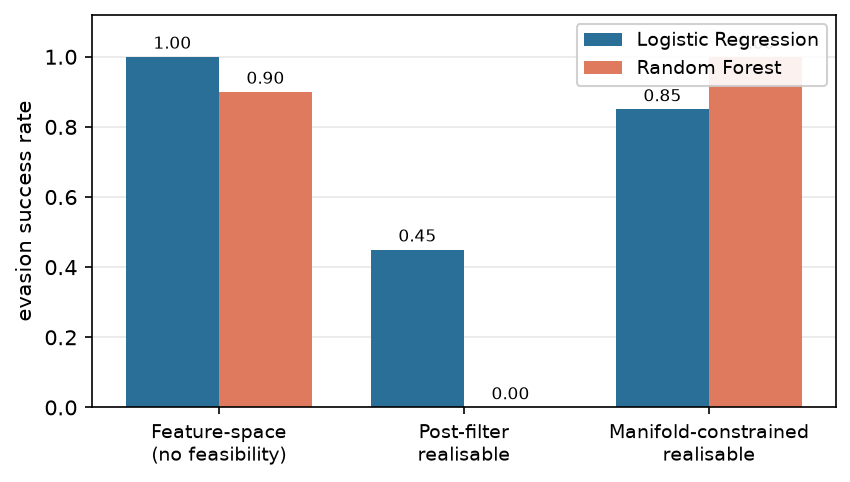
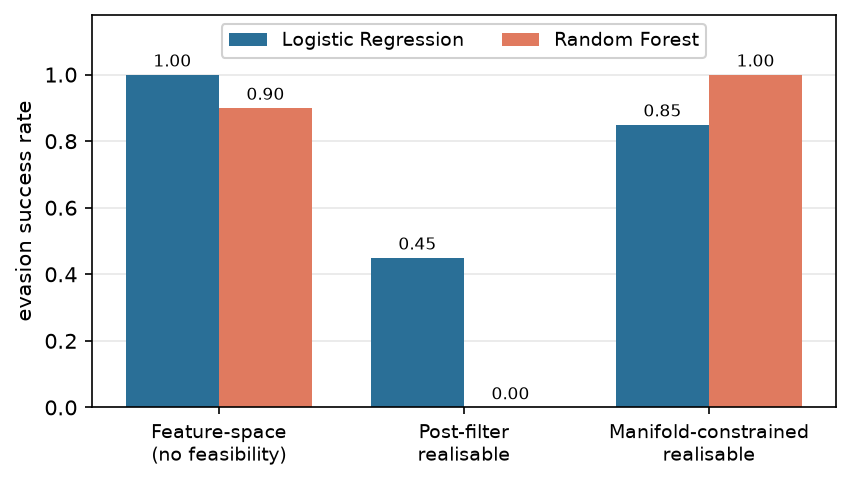
paper: center Figure 1 legend (clears the tall bars); gitignore LaTeX build output
tectonic installed locally; main.pdf builds cleanly (5 pp, all refs/figure/table
resolve). Sources tracked, compiled PDF gitignored (regenerate: tectonic main.tex).

diff --git a/docs/paper/make_figures.py b/docs/paper/make_figures.py
@@ -54,8 +54,10 @@ def fig_three_levels():
     for b in (b1, b2):
         ax.bar_label(b, fmt="%.2f", fontsize=8, padding=2)
     ax.set_xticks(x); ax.set_xticklabels(levels, fontsize=9)
-    ax.set_ylabel("evasion success rate"); ax.set_ylim(0, 1.12)
-    ax.legend(loc="upper right", fontsize=9, framealpha=0.9)
+    ax.set_ylabel("evasion success rate"); ax.set_ylim(0, 1.18)
+    # the middle (post-filter) group is the lowest, so a wide legend above it clears
+    # the tall feature-space and manifold bars
+    ax.legend(loc="upper center", ncol=2, fontsize=9, framealpha=0.9)
     ax.grid(axis="y", alpha=0.3)
     ax.set_axisbelow(True)
     _save(fig, "three_levels")